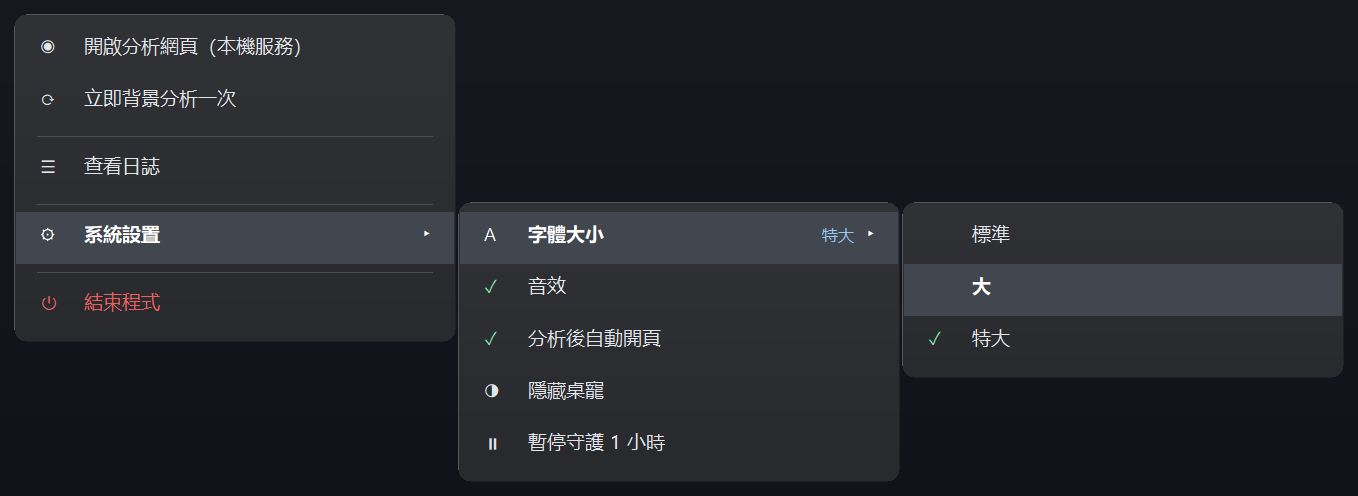
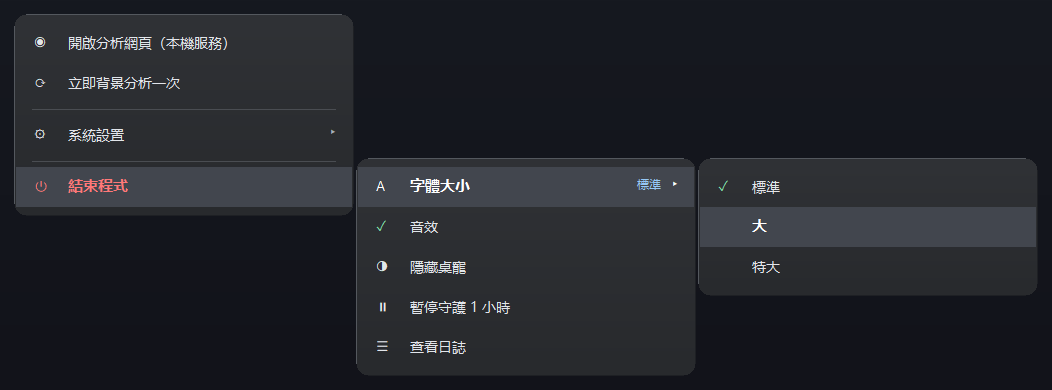
v1.0.4：分析完一定自動開結果頁，選單再收一格
- 移除「分析後自動開頁」開關（1009）：request_page 不再檢查，手動/警示分析完成一律開結果頁
- 按下「立即背景分析」即出氣泡「背景分析中…／會在分析完成後開啟分析結果」，掃描期間持續顯示（內容不變只延時不重繪），完成改「分析完成 · 正在開啟分析結果…」，失敗有提示，finally 清旗標
- 「查看日誌」移入系統設置最後一項；頂層 5 項 → 4 項
- 修 last_scan_ts 重啟歸零（--health 永遠顯示 0）
- 新增 data/scan_autopage_probe.py（真滑鼠全流程：點分析→氣泡→真跑→自動開頁）
- selftest 新增 menu log in settings；F10 config 改驗無 1009
- README 選單段改寫、docs/images/menu.png 重新產生、CHANGELOG 新增背景分析節

diff --git a/cdisk-guard/scripts/pet.py b/cdisk-guard/scripts/pet.py
@@ -402,6 +402,8 @@ PET_DEFAULTS = {
     'heartbeat_sec': 60,
     'check_interval_sec': 300,
     # Phase 2（D7／D8 採計劃書建議值）：分析完自動開頁；閒置 600 s 關服務
+    # 2026-11-26：auto_open_page_after_scan 已無作用（分析完成一律開頁，選單開關已移除），
+    # 保留欄位只為讀得懂舊 config／舊 state，不要再拿它當開關。
     'auto_open_page_after_scan': True,
     'serve_idle_close_sec': 600,
     # 介面字級：1.0=標準、1.15=大（預設，左鍵面板比原版大一號）、1.3=特大
@@ -779,9 +781,19 @@ class PetApp:
         self.page_reason = 'manual'
         self.server = None
         self.server_last_active = 0.0
-        self.auto_open = bool(pcfg.get('auto_open_page_after_scan', True))
+        # 2026-11-26：分析完成後一律自動開結果頁（原本有「分析後自動開頁」開關，
+        # 已移除——手動按了分析就是在等結果，不該再要他多點一次）。
+        self.auto_open = True
         self.idle_close = int(pcfg.get('serve_idle_close_sec', 600))
-        self.last_scan_ts = 0.0
+        # 從 state 接回上次分析時間：原本每次重啟都歸零，--health 就永遠顯示 0
+        try:
+            self.last_scan_ts = float(self.pet_state.get('last_scan_ts') or 0)
+        except (TypeError, ValueError):
+            self.last_scan_ts = 0.0
+        # 手動分析期間在氣泡顯示「完成後會開啟分析結果」；由 _poll_jobs 持續刷新
+        self.scan_hint = ''
+        self.scan_hint_until = 0.0
+        self.notice_block_until = 0.0     # 剛播完清理結果提示時，不要被掃描提示蓋掉
         # 清理進度／結果回饋（B5、B6）：桌寵讀 cdiskctl 寫的兩個檔案
         self.bubble_win = None
         self.bubble_until = 0.0
@@ -1130,11 +1142,11 @@ class PetApp:
     # 系統設置的第二層，避免每次右鍵都要掃 11 行。
     #   移除「離線唯讀報告」——與「開啟分析網頁」重複，改為開頁失敗時自動降級
     #   移除「查看通知」——notice.md 幾乎永遠是空的，警示已由氣泡＋托盤提示
+    #   移除「分析後自動開頁」——分析完就是要看結果，改成一律自動開；連帶把
+    #     「查看日誌」從頂層收進系統設置最後一項（低頻工具，不佔第一眼）
     MENU = [
         (1001, '開啟分析網頁（本機服務）'),
         (1002, '立即背景分析一次'),
-        (0, None),
-        (1003, '查看日誌'),
         (0, None),
         (2000, '系統設置'),
         (0, None),
@@ -1144,9 +1156,9 @@ class PetApp:
     SUBMENU = {
         2000: [(2001, '字體大小'),
                (1007, '音效'),
-               (1009, '分析後自動開頁'),
                (1006, '隱藏桌寵'),
-               (1005, '暫停守護 1 小時')],
+               (1005, '暫停守護 1 小時'),
+               (1003, '查看日誌')],
         2001: [(3001, '標準'),
                (3002, '大'),
                (3003, '特大')],
@@ -1155,7 +1167,7 @@ class PetApp:
     # 圖示字形（Segoe UI Symbol，與參考範例的「圖示＋文字」排列一致）
     MENU_ICON = {
         1001: '◉', 1002: '⟳', 1003: '☰', 2000: '⚙', 1008: '⏻',
-        2001: 'A', 1007: '♪', 1009: '◐', 1006: '◑', 1005: '⏸',
+        2001: 'A', 1007: '♪', 1006: '◑', 1005: '⏸',
     }
     MENU_RADIUS = 10
     MENU_ICON_FONT = 'Segoe UI Symbol'
@@ -1180,8 +1192,6 @@ class PetApp:
         """✓ 一律代表「已開啟／已選用」，不再用 ✓ 表示「關閉」。"""
         if cid == 1007:
             return bool(self.sound)
-        if cid == 1009:
-            return bool(self.auto_open)
         v = self.FONT_CHOICE.get(cid)
         return v is not None and abs(self.font_scale - v) < 1e-6
 
@@ -1666,16 +1676,15 @@ class PetApp:
             event(self.cfg, 'menu_open_page')
         elif cid == 1002:
             self.sfx('scan')
+            # 使用者按了就是想知道結果：先講清楚「完成後會自動開頁」，避免
+            # 分析跑兩三分鐘期間他以為沒反應又去按第二次。
+            self.scan_hint = '背景分析中…'
+            self.scan_hint_until = time.time() + 1800
+            self.notice_block_until = time.time() + 2.0
+            self.show_bubble('背景分析中…', sub='會在分析完成後開啟分析結果', hold=3.0)
             self.request_scan('manual')
-            C.log(self.cfg, 'pet menu: request background scan')
+            C.log(self.cfg, 'pet menu: request background scan (auto open page after)')
             event(self.cfg, 'menu_scan')
-        elif cid == 1009:
-            self.auto_open = not self.auto_open
-            self.p['auto_open_page_after_scan'] = self.auto_open
-            if self.auto_open:
-                self.sfx('happy')
-            C.log(self.cfg, 'pet menu: auto_open_page_after_scan=%s' % self.auto_open)
-            event(self.cfg, 'menu_auto_open', enabled=self.auto_open)
         elif cid == 1010:
             # 已從選單移除（與「開啟分析網頁」重複）；保留指令以相容舊呼叫，
             # 現在這條路徑只作為 serve 起不來時的自動降級（見 _serve_open）。
@@ -1763,8 +1772,7 @@ class PetApp:
         event(self.cfg, 'scan_requested', reason=reason)
 
     def request_page(self, reason='manual'):
-        if not self.auto_open and reason != 'manual':
-            return          # D7「只通知不開頁」開關；手動點選單永遠可用
+        # 分析完就是要看結果：不再有「只通知不開頁」的開關（2026-11-26 移除）
         self.page_reason = reason
         self.page_req.set()
         event(self.cfg, 'page_requested', reason=reason)
@@ -2128,6 +2136,7 @@ class PetApp:
             txt = '清理結果：%s' % (st or '未知')
         sub = ('剩餘 %.2f%%' % float(free)) if free is not None else ''
         self.show_bubble(txt, sub=sub, hold=6.0)
+        self.notice_block_until = time.time() + 6.0   # 別讓「分析中」蓋掉清理結果
         self.sfx('alert' if st == 'ABORTED' else 'happy')
         event(self.cfg, 'delete_done', status=st,
               removed=last.get('fully_removed'), partial=last.get('partial'),
@@ -2167,6 +2176,18 @@ class PetApp:
                 self.clean_seen_ts = ts
                 self.clean_seen_seq = seq
                 self._announce_delete(last)
+
+        # 手動背景分析期間持續提示：全盤分析要跑幾分鐘，只閃一次 3 秒沒人看得到。
+        # 優先序：清理進度／清理結果 > 分析提示（不要蓋掉剛播完的結果）。
+        # 內容沒變就只延長顯示時間，不要每秒重繪（重繪會讓文字看起來在閃）。
+        if (self.scan_hint and self.scan_busy.locked()
+                and time.time() < self.scan_hint_until
+                and not prog and time.time() >= self.notice_block_until):
+            if self.bubble_text != self.scan_hint:
+                self.show_bubble(self.scan_hint,
+                                 sub='會在分析完成後開啟分析結果', hold=2.5)
+            else:
+                self.bubble_until = max(self.bubble_until, time.time() + 2.5)
 
     # ---------- 背景 worker（F7/F9/F10） ----------
     def maybe_weekly(self, cfg, disk=None, now=None):
@@ -2243,13 +2264,26 @@ class PetApp:
                   elapsed_ms=int((time.time() - t0) * 1000))
             # F10：警示／手動分析完成後開頁；週一僅在仍低於門檻時開頁
             if kind in ('alert', 'manual') or level == 'alert':
+                # 先講「完成了、正在開結果」，開頁本身要幾百毫秒，使用者才不會
+                # 覺得按了分析卻什麼都沒發生
+                self.scan_hint = ''
+                self.scan_hint_until = 0.0
+                self.notice_block_until = time.time() + 6.0
+                self.show_bubble('分析完成', sub='正在開啟分析結果…', hold=6.0)
                 self.request_page(kind)
             elif level == 'warn' and cfg['alert'].get('notify_on_warn_pct'):
                 C.write_notice(cfg, disk, '桌寵背景分析後介於 2%~10%')
         except Exception as ex:
             C.log(self.cfg, 'pet scan failed reason=%s: %s' % (kind, ex))
             event(self.cfg, 'scan_failed', reason=kind, ok=False)
+            if kind == 'manual':
+                self.scan_hint = ''
+                self.scan_hint_until = 0.0
+                self.show_bubble('分析失敗', sub='詳見日誌', hold=5.0)
         finally:
+            if kind == 'manual':            # 任何結束路徑都不要留下「分析中」提示
+                self.scan_hint = ''
+                self.scan_hint_until = 0.0
             self.scan_busy.release()
 
     def _browser_open(self, url):
@@ -2581,10 +2615,16 @@ def cmd_selftest(cfg):
                                     ('GuardServer', '_ACTIVE_SERVER'))
                and all(hasattr(C.GuardServer, k) for k in ('start', 'close')), ''))
     ok.append(('F10 config',
-               isinstance(p.get('auto_open_page_after_scan'), bool)
-               and int(p['serve_idle_close_sec']) >= 30,
-               'auto_open=%s idle=%ss'
-               % (p.get('auto_open_page_after_scan'), p.get('serve_idle_close_sec'))))
+               int(p['serve_idle_close_sec']) >= 30
+               and 1009 not in [c for c, _l in PetApp.MENU]
+               and 1009 not in [c for v in PetApp.SUBMENU.values() for c, _l in v],
+               'idle=%ss auto-open=always'
+               % p.get('serve_idle_close_sec')))
+    # 2026-11-26：「查看日誌」收進系統設置最後一項；「分析後自動開頁」已移除
+    ok.append(('menu log in settings',
+               bool(PetApp.SUBMENU.get(2000)) and PetApp.SUBMENU[2000][-1][0] == 1003
+               and 1003 not in [c for c, _l in PetApp.MENU],
+               'settings last = 查看日誌'))
     ok.append(('B5/B6 progress API', all(hasattr(C, k) for k in
                                          ('read_progress', 'read_last_delete',
                                           'progress_running', 'progress_path',

diff --git a/CHANGELOG.md b/CHANGELOG.md
@@ -4,11 +4,17 @@
 
 ### 右鍵選單
 
-- **選單從 11 項減到 5 項**：常用的一次就點得到——開分析清單、立刻分析一次、查看日誌、系統設置、結束程式
-- **設定類收進「系統設置」第二層**：暫停守護、隱藏桌寵、音效、分析後自動開頁、字體大小都在裡面；滑到或點一下就會往旁邊展開，不會關掉整個選單
+- **選單從 11 項減到 4 項**：常用的一次就點得到——開分析清單、立刻分析一次、系統設置、結束程式
+- **設定類收進「系統設置」第二層**：字體大小、音效、隱藏桌寵、暫停守護、查看日誌；滑到或點一下就會往旁邊展開，不會關掉整個選單
+- **「查看日誌」移到系統設置最後一項**：它是排查問題時才用的低頻工具，不該佔用右鍵第一眼
 - **字體大小改成直接挑**：以前是「點一次換一級」，想從大改回標準得連點三次；現在展開就是標準／大／特大三個選項，點哪個就哪個，還有一個勾勾標出目前用哪一級
 - **移除兩項低價值功能**：離線唯讀報告（與開分析網頁重複，改成開不了網頁時自動降級）、查看通知（幾乎永遠是空的，警示已由氣泡與托盤提示）
 - **開關改用勾勾表示**：以前音效「關」的時候反而打勾，看得懂才怪；現在有勾＝已開啟
+
+### 背景分析
+
+- **按了就一定會給結果**：以前有個「分析後自動開頁」的開關，關掉之後按「立刻分析一次」跑完什麼都不會發生。現在這個開關拿掉了，分析完成就自動開啟結果網頁
+- **分析期間畫面會說明**：按下後桌寵旁邊出現氣泡「背景分析中… / 會在分析完成後開啟分析結果」，全盤分析要跑兩三分鐘，不會讓你以為沒反應；完成時氣泡改成「分析完成 · 正在開啟分析結果…」
 
 ### 修正
 

diff --git a/README.md b/README.md
@@ -66,10 +66,12 @@
 
 ![右鍵選單](docs/images/menu.png)
 
-右鍵選單只留五項，常用的一次點得到：
-**開分析清單**、**立刻分析一次**、**查看日誌**、**系統設置**、**結束程式**。
+右鍵選單只留四項，常用的一次點得到：
+**開分析清單**、**立刻分析一次**、**系統設置**、**結束程式**。
 
-「系統設置」往右展開第二層，設定類的東西都收在裡面：**字體大小**（再展開就是標準／大／特大，點一下就換）、**音效開關**、**分析後自動開頁**、**隱藏桌寵**、**暫停守護 1 小時**。
+「系統設置」往右展開第二層，設定類的東西都收在裡面：**字體大小**（再展開就是標準／大／特大，點一下就換）、**音效開關**、**隱藏桌寵**、**暫停守護 1 小時**、**查看日誌**。
+
+按「立刻分析一次」之後，牠旁邊會出現一個小氣泡寫「**會在分析完成後開啟分析結果**」，分析跑完就自動幫你把結果網頁打開——不用再回頭點一次。（以前有個「分析後自動開頁」的開關，現在拿掉了：按了分析就是在等結果，不該還要你多按一次。）
 
 > **小提醒**：右鍵只是把選單打開，要用**左鍵**點那一項才會真的執行。按錯了想反悔，把滑鼠移開再放手就好。
 > 字體大小以前是「點一次換一級、要點三次才回到原本」，現在直接列出三級讓你挑。
